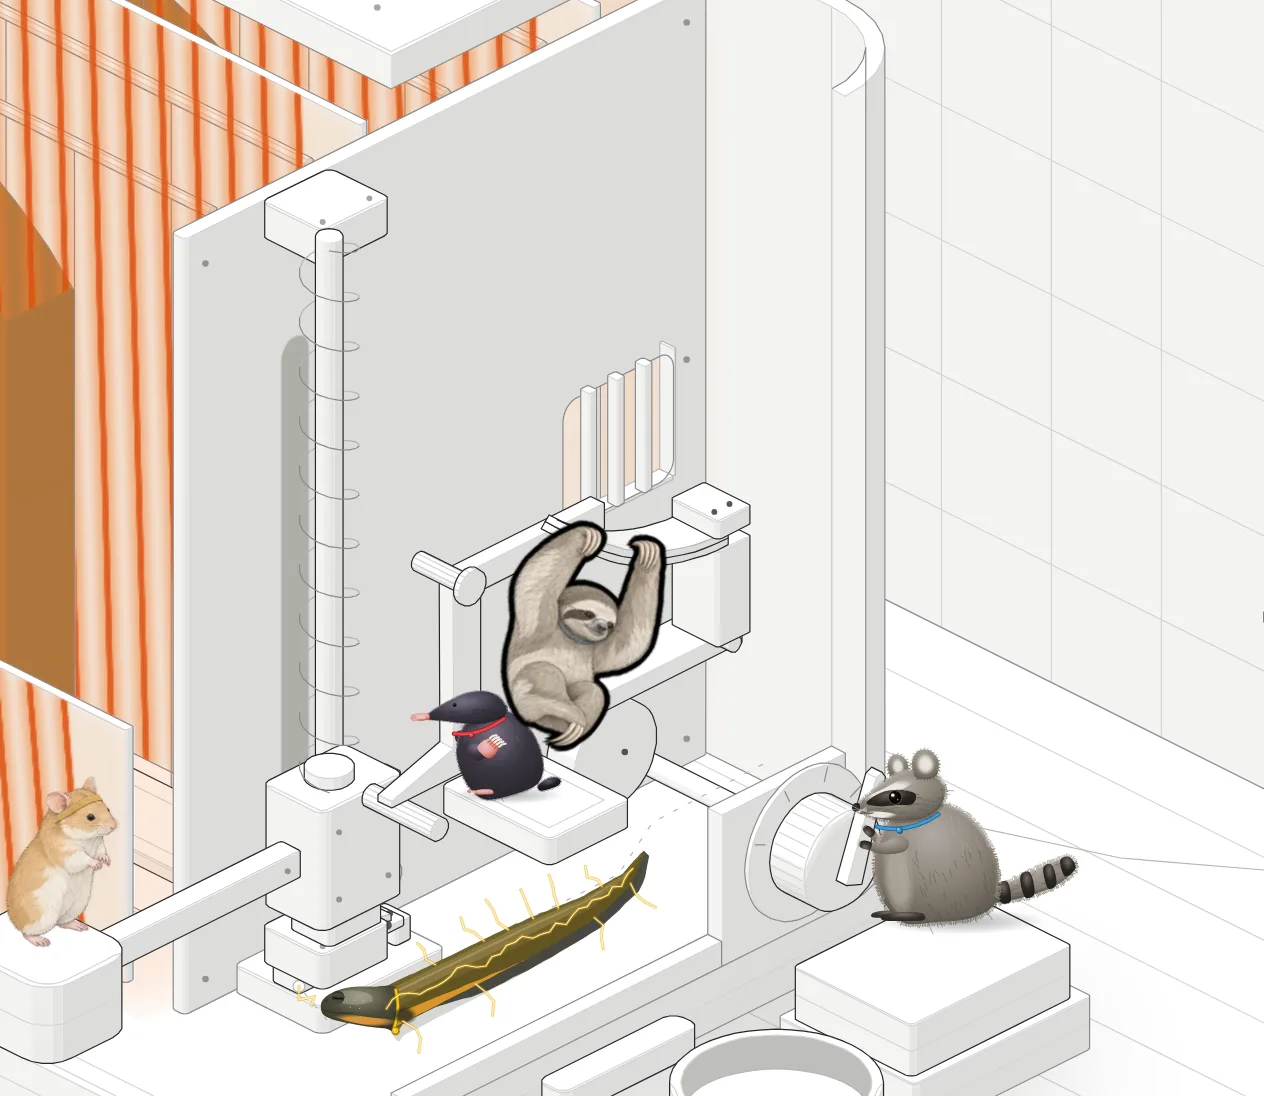
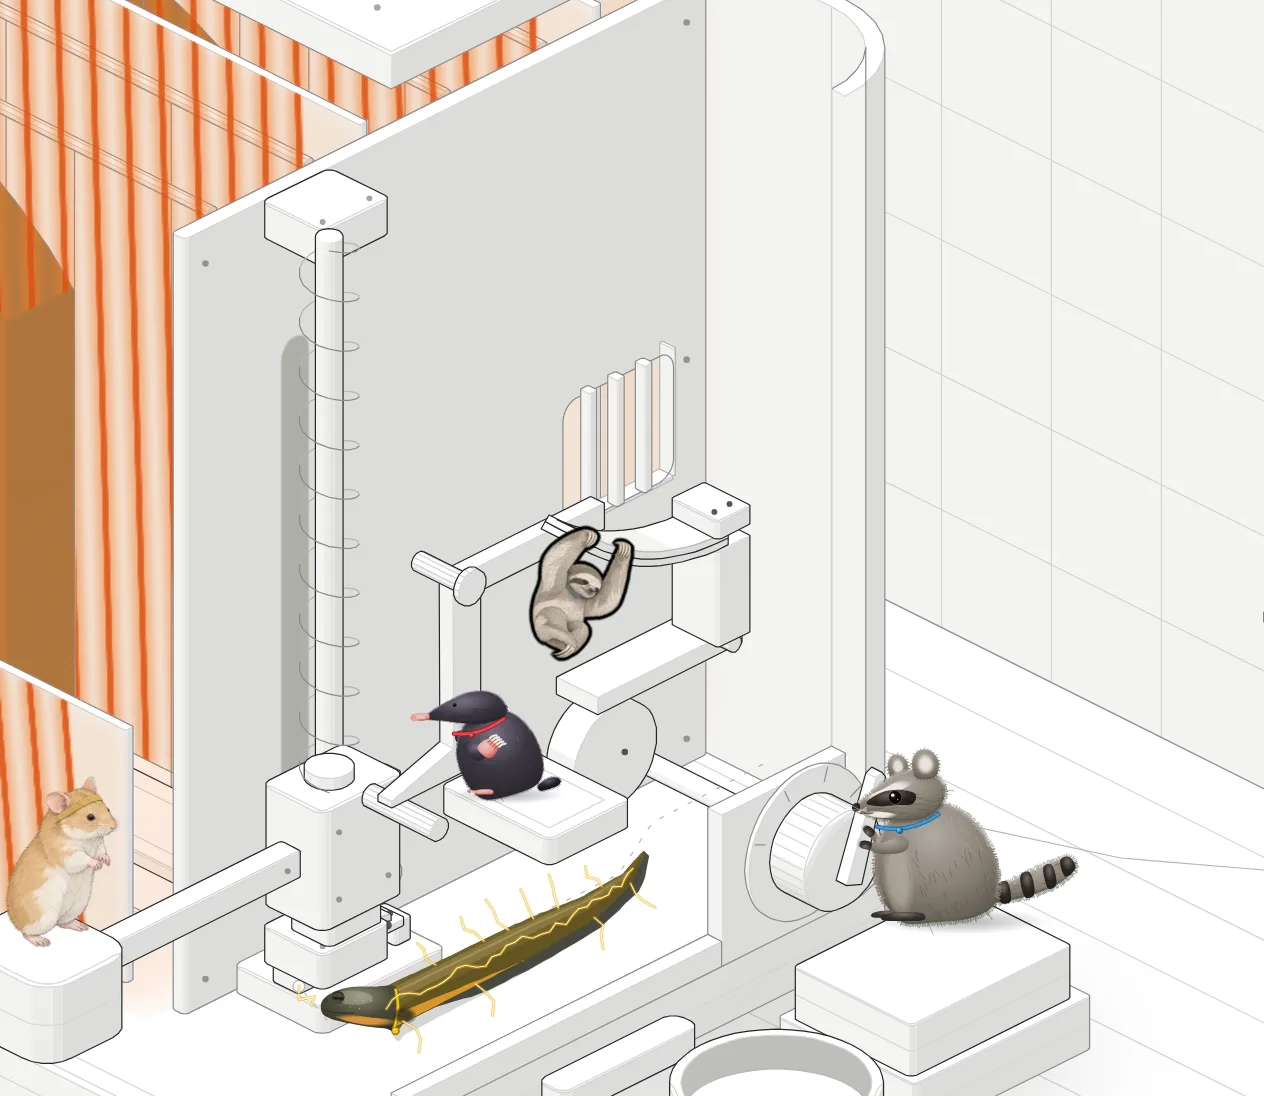
fix(toaster): size Mo's sprite from a 6-unit grip on the strip

Changed region(s): [[0.3703, 0.4653, 0.5245, 0.6825]]

diff --git a/examples/toaster/toaster-light.html b/examples/toaster/toaster-light.html
@@ -4437,10 +4437,10 @@ function draw() {
   const now = still.matches ? 0 : performance.now() / 1000;
   const moClip = S.duty === "mo" ? "work" : "idle", bunClip = S.hop > 0.05 ? "react" : S.hand ? "work" : "idle";
   const mi = SPRITE.frameOf(SM, moClip, moClip === "idle" ? now + 1.7 : S.stepT), bi = SPRITE.frameOf(SM, bunClip, bunClip === "idle" ? now : S.stepT);
-  // Mo's claws grip the curling strip 0.8 and 10.8 units from its free end, so he rides its bend.
+  // Mo's claws grip the curling strip 0.8 and 6.8 units from its free end, so he rides its bend.
   const St = C.STRIP, kap = Math.max(1e-6, (2 * C.MM * C.BEND * (S.strip - 20)) / (St.len * St.len)), lift = C.CAM_E * (Math.cos((S.knob * C.KNOB_TURN * Math.PI) / 180) - 1);
   const grip = (s) => K.iso([St.x1 - 0.4, St.y + Math.sin(kap * s) / kap, St.z + lift + (1 - Math.cos(kap * s)) / kap + 0.2], P);
-  SPRITE.paint(el.mo, SM, "sloth", mi, SPRITE.byGrips(SM.characters.sloth.frames[mi], [grip(St.len - 0.8), grip(St.len - 10.8)]), S.duty === "mo");
+  SPRITE.paint(el.mo, SM, "sloth", mi, SPRITE.byGrips(SM.characters.sloth.frames[mi], [grip(St.len - 0.8), grip(St.len - 6.8)]), S.duty === "mo");
   paintCrew("dig", el.dig, DIG, p.dig, S.duty === "dig");
   paintCrew("rocky", el.rocky, ROCKY, p.rocky, S.duty === "rocky");
   SPRITE.paint(el.roo, SM, "hamster", bi, SPRITE.byFeet(SM.characters.hamster.frames[bi], K.iso([p.roo.at[0], p.roo.at[1], p.roo.at[2] + p.roo.hop], P), BUN_SCALE), S.duty === "roo");

diff --git a/examples/toaster/toaster.html b/examples/toaster/toaster.html
@@ -4437,10 +4437,10 @@ function draw() {
   const now = still.matches ? 0 : performance.now() / 1000;
   const moClip = S.duty === "mo" ? "work" : "idle", bunClip = S.hop > 0.05 ? "react" : S.hand ? "work" : "idle";
   const mi = SPRITE.frameOf(SM, moClip, moClip === "idle" ? now + 1.7 : S.stepT), bi = SPRITE.frameOf(SM, bunClip, bunClip === "idle" ? now : S.stepT);
-  // Mo's claws grip the curling strip 0.8 and 10.8 units from its free end, so he rides its bend.
+  // Mo's claws grip the curling strip 0.8 and 6.8 units from its free end, so he rides its bend.
   const St = C.STRIP, kap = Math.max(1e-6, (2 * C.MM * C.BEND * (S.strip - 20)) / (St.len * St.len)), lift = C.CAM_E * (Math.cos((S.knob * C.KNOB_TURN * Math.PI) / 180) - 1);
   const grip = (s) => K.iso([St.x1 - 0.4, St.y + Math.sin(kap * s) / kap, St.z + lift + (1 - Math.cos(kap * s)) / kap + 0.2], P);
-  SPRITE.paint(el.mo, SM, "sloth", mi, SPRITE.byGrips(SM.characters.sloth.frames[mi], [grip(St.len - 0.8), grip(St.len - 10.8)]), S.duty === "mo");
+  SPRITE.paint(el.mo, SM, "sloth", mi, SPRITE.byGrips(SM.characters.sloth.frames[mi], [grip(St.len - 0.8), grip(St.len - 6.8)]), S.duty === "mo");
   paintCrew("dig", el.dig, DIG, p.dig, S.duty === "dig");
   paintCrew("rocky", el.rocky, ROCKY, p.rocky, S.duty === "rocky");
   SPRITE.paint(el.roo, SM, "hamster", bi, SPRITE.byFeet(SM.characters.hamster.frames[bi], K.iso([p.roo.at[0], p.roo.at[1], p.roo.at[2] + p.roo.hop], P), BUN_SCALE), S.duty === "roo");

diff --git a/references/crew.md b/references/crew.md
@@ -230,7 +230,7 @@ Most of the crew wear nothing but their collar. A prop goes on only where it rea
 On this variant some animals are drawn from bundled illustrations instead of the painted rig: natural-history drawings with fine contours and muted colour, made once by the maintainers and shipped in `assets/crew/` (WebP atlases of twelve 512-unit cells, and `sprites.json`). Nobody using the skill needs an image model: the figure picks an existing animal and action and the page places it.
 
 - **What exists.** The hamster and the sloth, twelve frames each: 0 to 3 idle and blink, 4 to 7 work, 8 to 11 react. One camera (azimuth 45°, elevation 30°), facing right. Anything else (another species, a heading, an action) needs a new approved atlas; don't stretch a frame to fake one, use the painted critter instead.
-- **Placing.** `byFeet(frame, point, scale)` lands the frame's foot anchor on a projected world point (Bun on the toaster's lever knob). `byGrips(frame, [a, b])` lands its two grip points on two projected points by a rotation and a uniform scale (Mo's claws 0.8 and 10.8 units from the strip's free end, so he rides its curl). Compute the points from the part, as with paws.
+- **Placing.** `byFeet(frame, point, scale)` lands the frame's foot anchor on a projected world point (Bun on the toaster's lever knob). `byGrips(frame, [a, b])` lands its two grip points on two projected points by a rotation and a uniform scale (Mo's claws 0.8 and 6.8 units from the strip's free end, so he rides its curl). Compute the points from the part, as with paws.
 - **Frames from the model.** Idle blinks every few seconds; work loops while the animal is on duty; react plays once on a sudden event (the pop).
 - **Duty.** A thin rim in `--crew-duty`, drawn with drop shadows on the sprite's slot.
 - **Portable.** `spriteDefs` embeds each atlas once as a data URL, so a one-file page works offline; the toaster's two atlases add about 0.2 MB.
